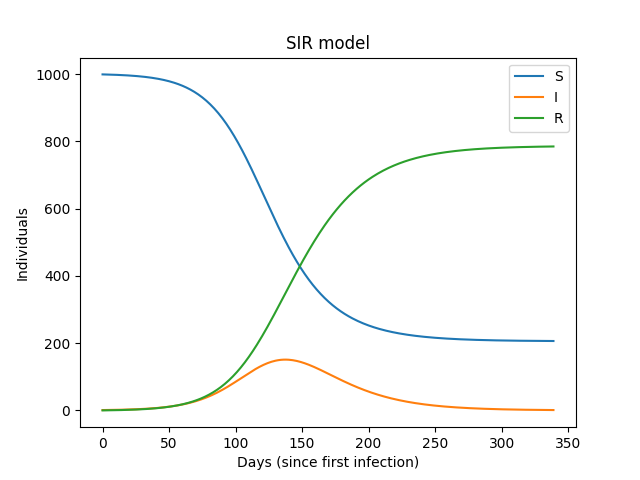
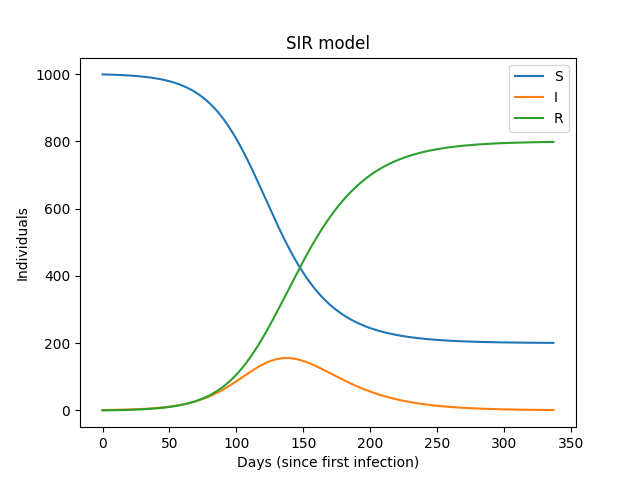
add iterative procedual version

diff --git a/week1/sir_iterative_procedual.cpp b/week1/sir_iterative_procedual.cpp
@@ -1,0 +1,34 @@
+#include <iostream>
+#include <fstream>
+#include <stdio.h>
+
+double I = 1;          // Infected
+double N = 1000;       // Population
+double S = N - I;      // Suspectible but not yet infected
+double R = N - S - I;  // Recovered and now immune
+
+double infection_rate = 1./5.;  // Beta
+double recovery_rate = 1./10.;  // Gamma
+
+double step_size = .5;
+double steps = 10000;
+
+int main (int argc, char *argv[]) {
+    FILE *outFile;
+    outFile = fopen("sir_output.txt", "w");
+
+    fprintf(outFile, "S I R\n");
+    double is; 
+    double ir; 
+    double frac = 1/N; //save on divisions
+    while(steps-- && I>=1){
+        fprintf(outFile, "%.3f %.3f %.3f\n", S, I, R);
+        is = infection_rate * I * S * frac;
+        ir = recovery_rate * I;
+        S -= is * step_size;
+        I += (is - ir) * step_size;
+        R += ir * step_size;
+    }
+    fclose(outFile);
+    return 0;
+}
